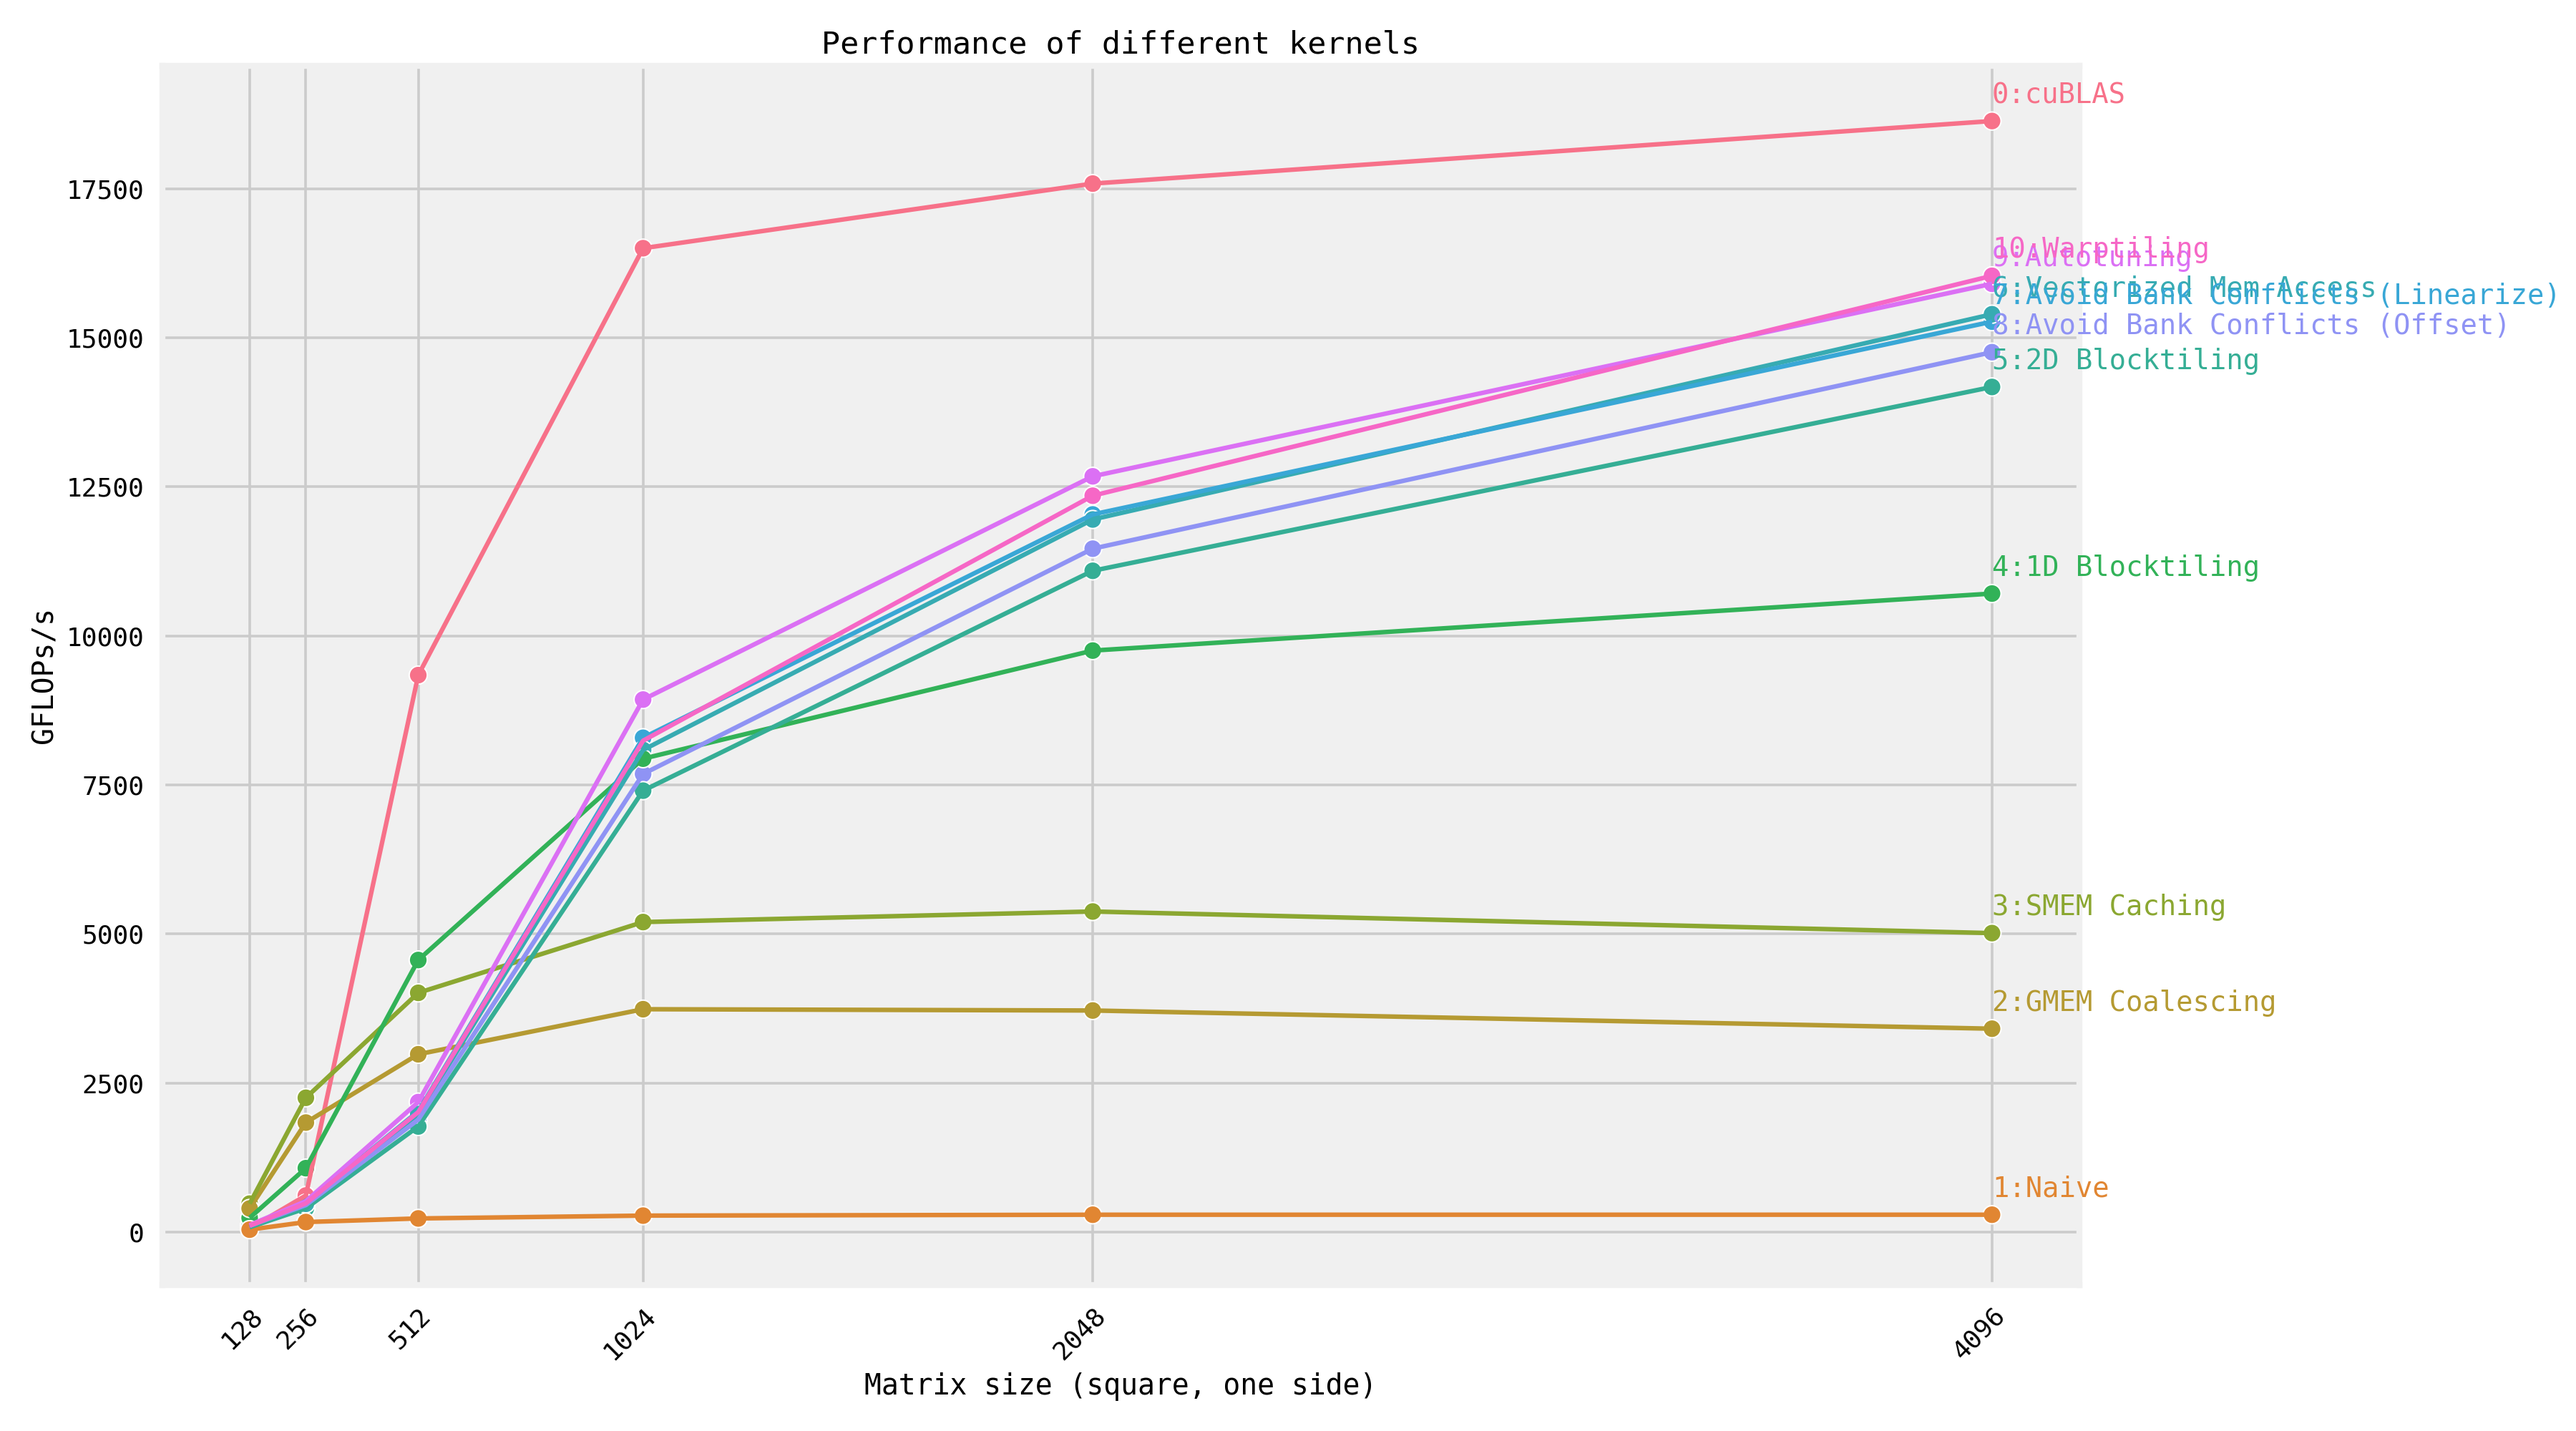
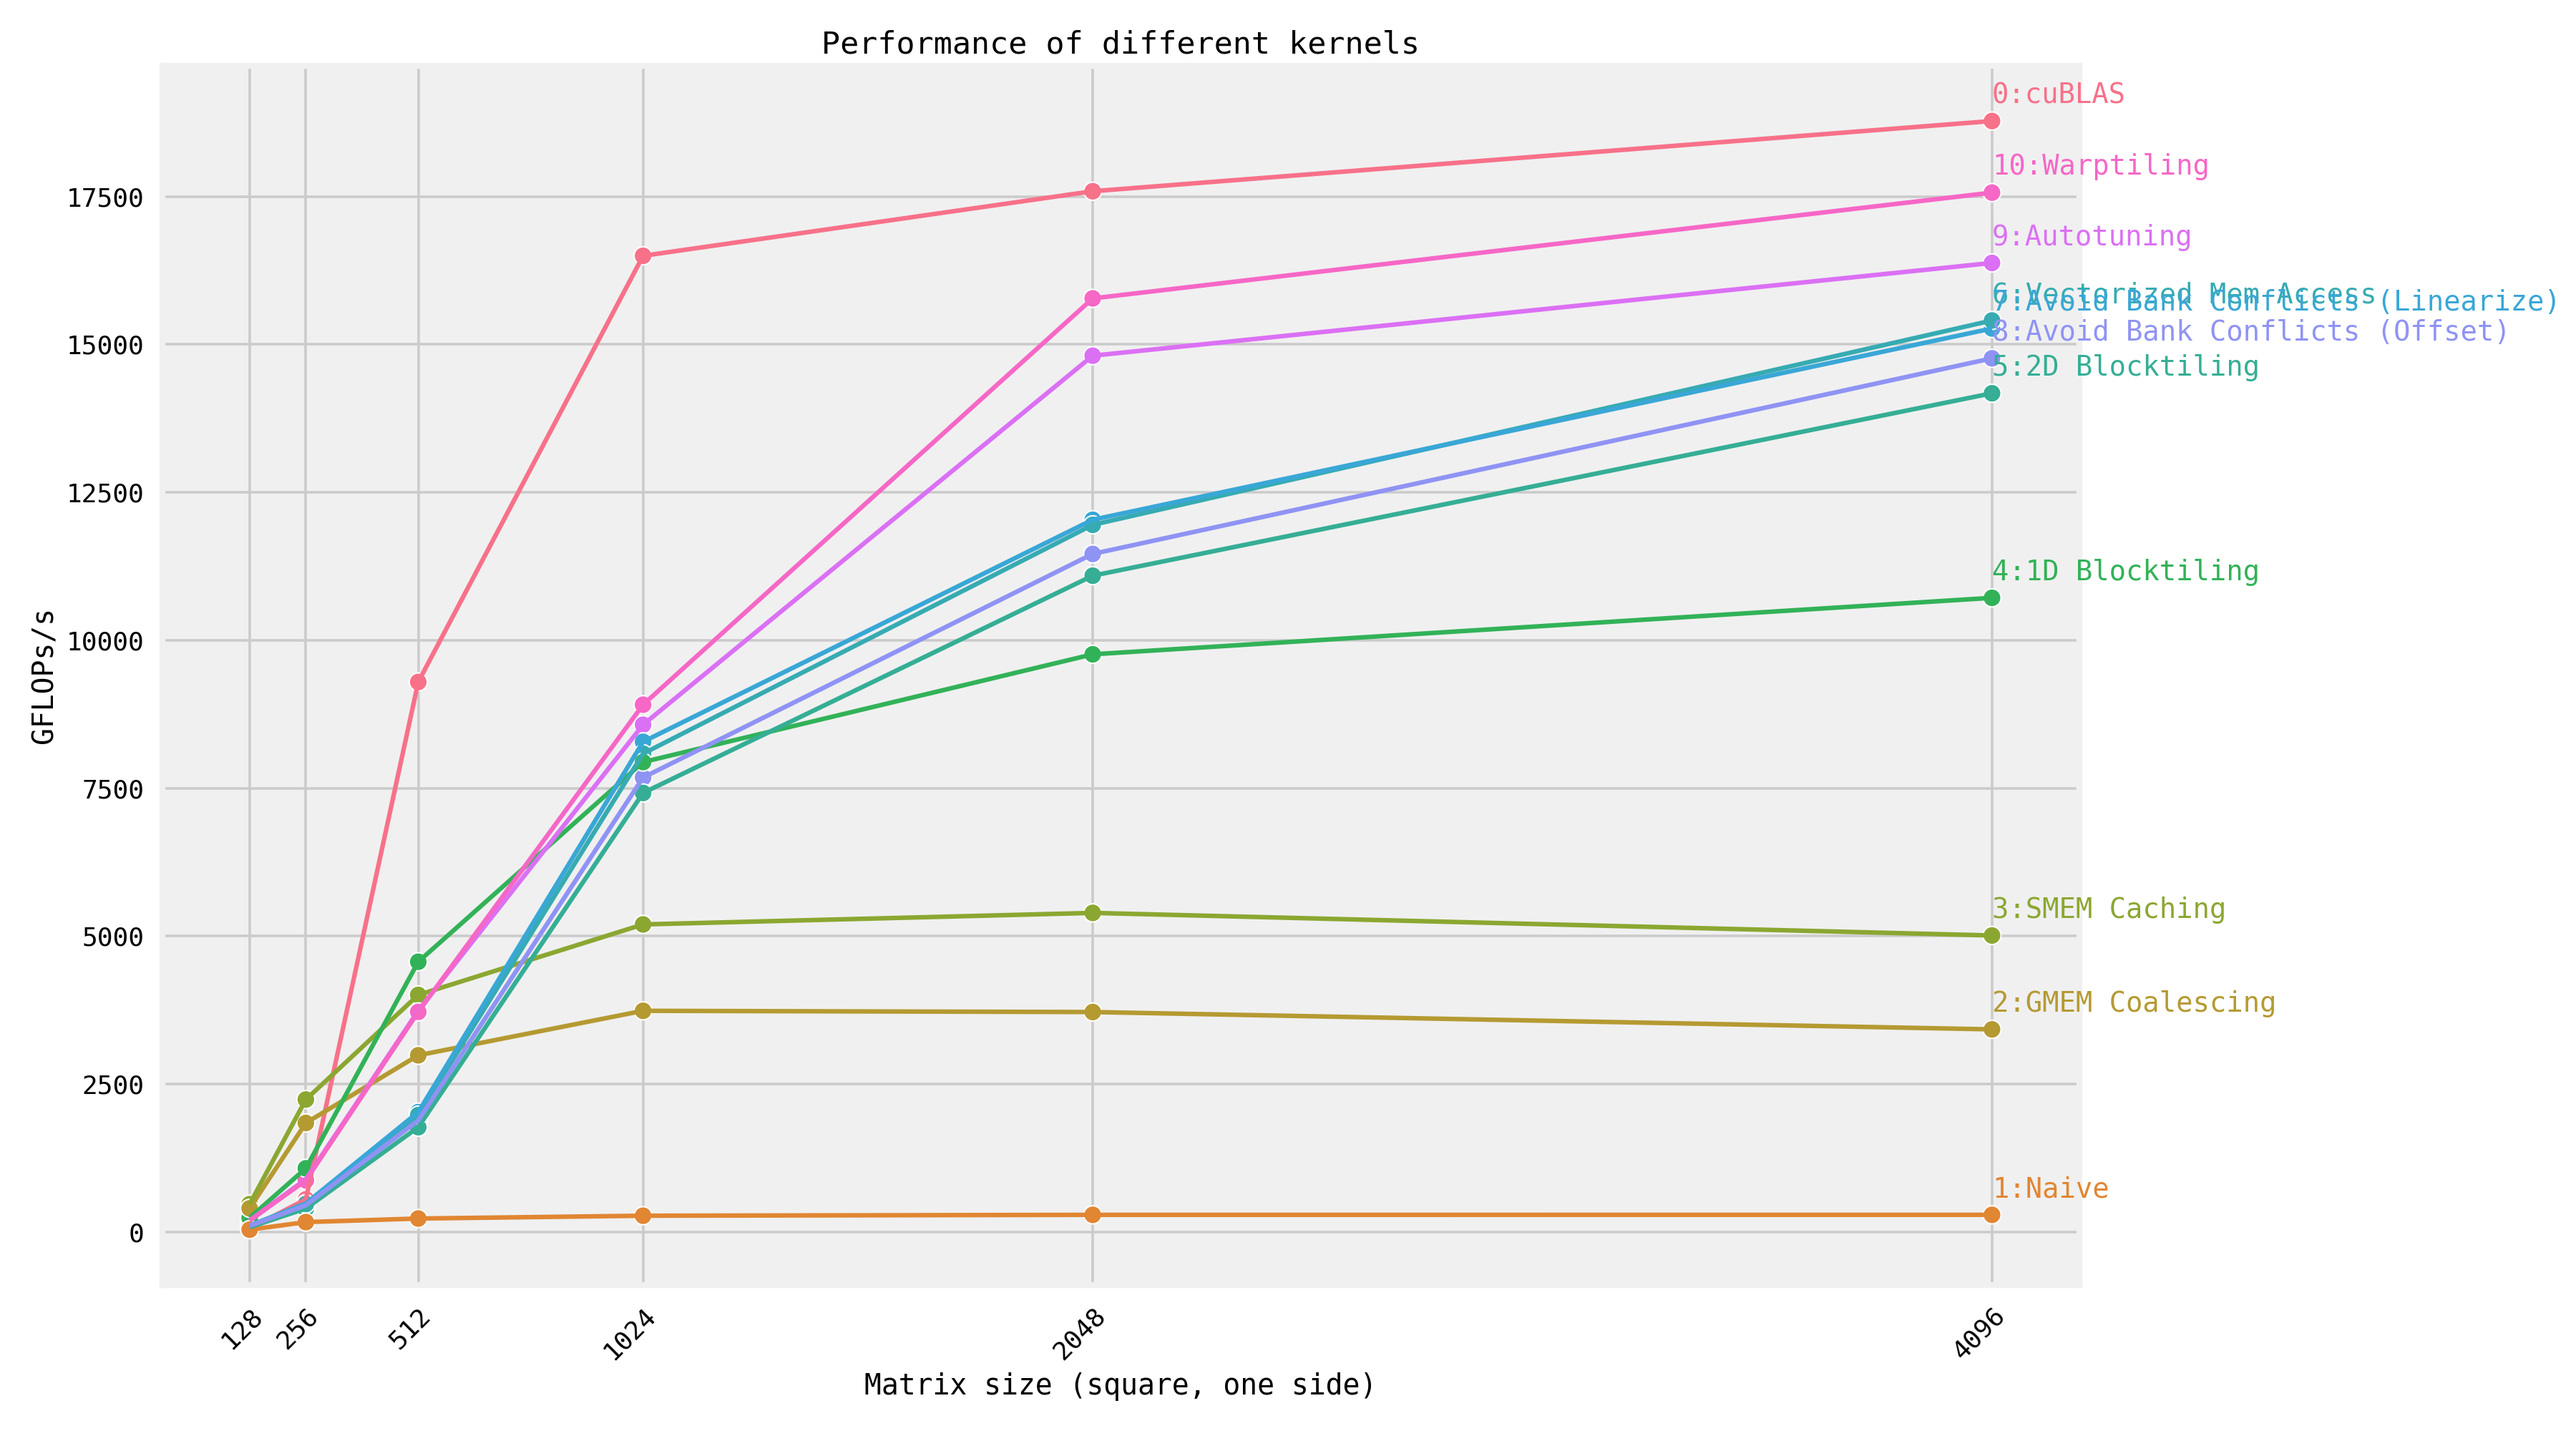
add: update autotuner script and parameters

diff --git a/scripts/autotuner.py b/scripts/autotuner.py
@@ -1,0 +1,21 @@
+import re
+
+FILE = "../benchmark_results/kernel_11_autotune_results.txt"
+with open(FILE, 'r') as f:
+    lines = f.readlines()
+    config = ""
+    lst, results = [], []
+    for line in lines:
+        if "NUM_THREADS" in line:
+            config = line
+            results = []
+        if "performance" in line:
+            TIME, GFLOPS, SIZE = re.findall(r"\d+\.?\d*", line)
+            results.append((TIME, GFLOPS, SIZE))
+            if SIZE == "4096":
+                lst.append((config, results))
+    lst.sort(key=lambda x: float(x[1][5][1]), reverse=True)
+    print(lst[0][0])
+
+# kernel 9:(184/576): BK=16 TM=8 TN=4 BM=128 BN=64 NUM_THREADS=256
+# kernel 10:(20995/73728): BK=16 BM=64 BN=128 WM=64 WN=32 WN_ITER=1 TM=4 TN=8 NUM_THREADS=128

diff --git a/scripts/bank_calc.py b/scripts/bank_calc.py
@@ -27,7 +27,7 @@ def printBankConflicts(bank_fun):
 
 
 print("---NAIVE---")
-printBankConflicts(banks_naive, 32)
+printBankConflicts(banks_naive)
 
 print("\n---EXTRA COL---")
-printBankConflicts(banks_one_extra, 33)
+printBankConflicts(banks_one_extra)

diff --git a/README.md b/README.md
@@ -14,16 +14,16 @@ GFLOPs at matrix size 4096x4096:
 | Kernel                              |   GFLOPs/s | Performance relative to cuBLAS   |
 |:------------------------------------|-----------:|:---------------------------------|
 | 1: Naive                            |      291.7 | 1.6%                             |
-| 2: GMEM Coalescing                  |     3411.6 | 18.3%                            |
-| 3: SMEM Caching                     |     5015   | 26.9%                            |
-| 4: 1D Blocktiling                   |    10710.3 | 57.5%                            |
-| 5: 2D Blocktiling                   |    14175.3 | 76.1%                            |
-| 8: Avoid Bank Conflicts (Offset)    |    14758.5 | 79.2%                            |
-| 7: Avoid Bank Conflicts (Linearize) |    15270.9 | 81.9%                            |
-| 6: Vectorized Mem Access            |    15395   | 82.6%                            |
-| 9: Autotuning                       |    15906.1 | 85.4%                            |
-| 10: Warptiling                      |    16039.6 | 86.1%                            |
-| 0: cuBLAS                           |    18636   | 100.0%                           |
+| 2: GMEM Coalescing                  |     3425.5 | 18.2%                            |
+| 3: SMEM Caching                     |     5012.1 | 26.7%                            |
+| 4: 1D Blocktiling                   |    10717.7 | 57.1%                            |
+| 5: 2D Blocktiling                   |    14174.3 | 75.5%                            |
+| 8: Avoid Bank Conflicts (Offset)    |    14764.8 | 78.6%                            |
+| 7: Avoid Bank Conflicts (Linearize) |    15269.4 | 81.3%                            |
+| 6: Vectorized Mem Access            |    15404.1 | 82.0%                            |
+| 9: Autotuning                       |    16376.8 | 87.2%                            |
+| 10: Warptiling                      |    17565   | 93.6%                            |
+| 0: cuBLAS                           |    18774.9 | 100.0%                           |
 <!-- benchmark_results -->
 
 ## Setup
